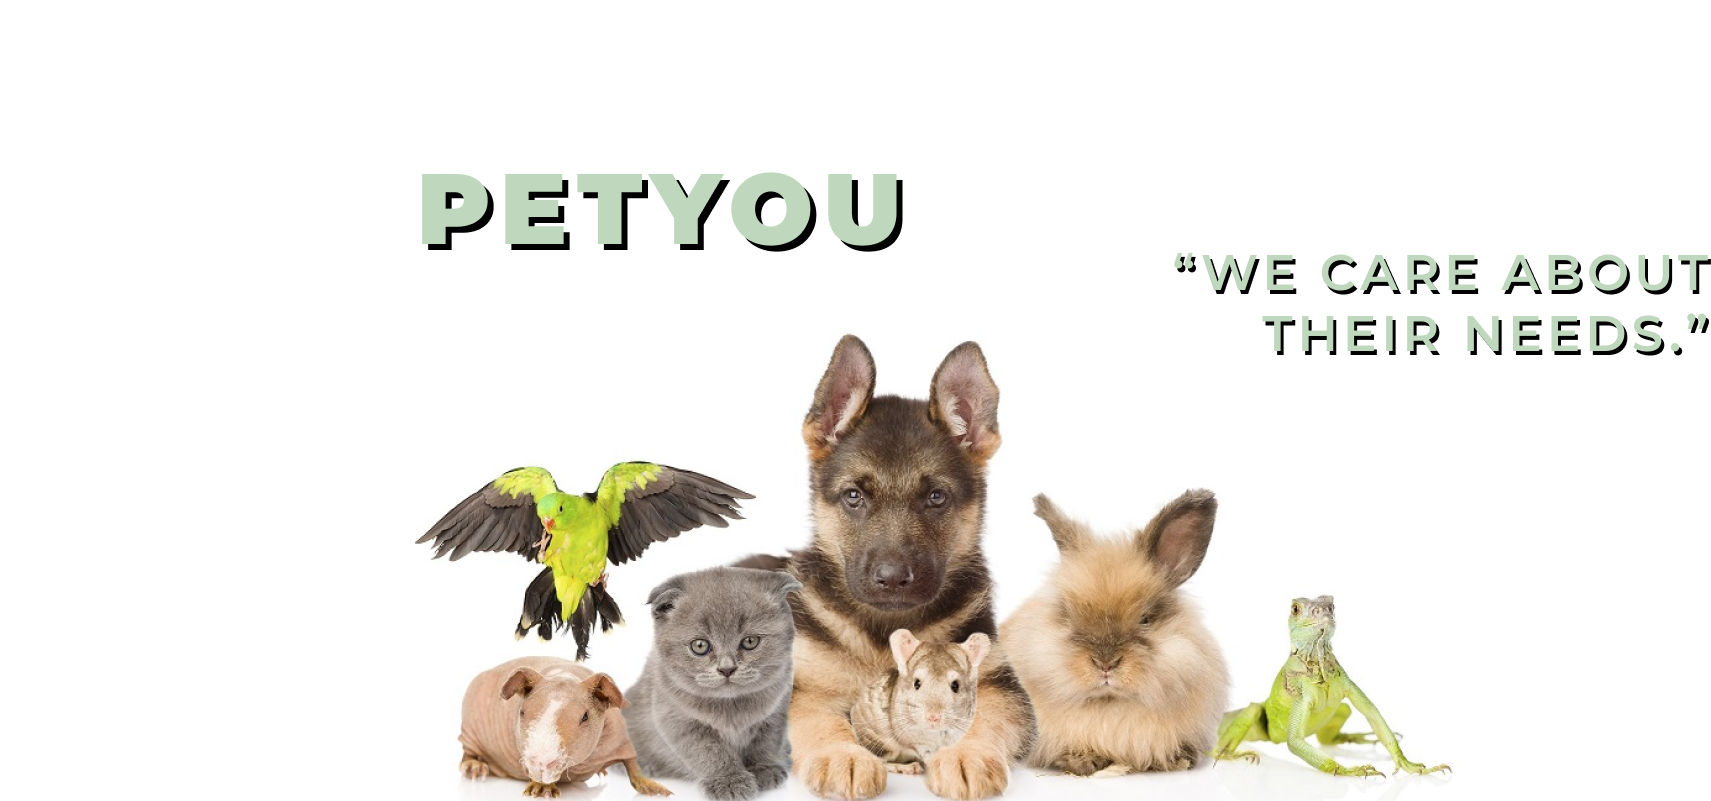
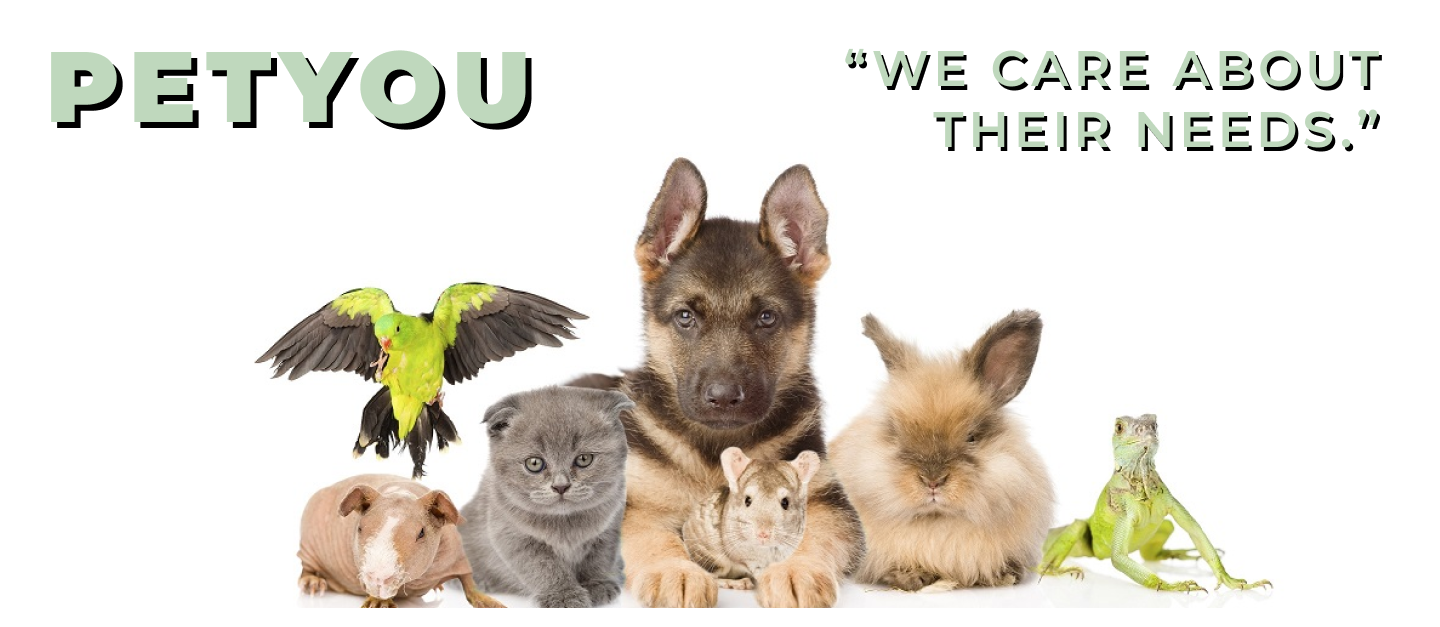
homepage

diff --git a/style.css b/style.css
@@ -85,13 +85,15 @@ button, button:focus {
     padding: 0 1rem;
 }
 #top-sale .owl-carousel .owl-nav button.owl-prev span {
-    margin-left: -4rem;
+    overflow: 2;
+    margin-left: -3.5rem;
 }
 #top-sale .owl-carousel .owl-nav button.owl-next {
     right: 0;
 }
 #top-sale .owl-carousel .owl-nav button.owl-next span {
-    margin-right: -4rem;
+    overflow: 2;
+    margin-right: -3.5rem;
 }
 
 /*   Special Price Section Template */
@@ -100,4 +102,23 @@ button, button:focus {
     margin-top: 1rem;
 }
 
+
+.home{
+    padding-top: -5rem;
+    background-color: #98C9A3;
+    margin-top: 3rem;
+    margin-bottom: 3rem;
+    border: 2px;
+    border-radius: 20px;
+    align-items: center;
+}
+
+.htitle{
+    font-weight: bold;
+    font-size: 30px;
+}
+
+#main-site{
+    background-color: #FFFFE9;
+}
 /*# sourceMappingURL=style.css.map */

diff --git a/Template/_blogs.php b/Template/_blogs.php
@@ -1,13 +1,30 @@
 
 <!-- Blogs -->
-<section id="blogs">
-    <div class="container py-4">
-        <h4 class="font-rubik font-size-20">Latest Blogs</h4>
+<section id="top-sale">
+<div class="container py-3 px-5 home">
+        <p class="htitle">NEW PETS</p>
+        <!-- owl carousel -->
+        <div class="owl-carousel owl-theme">
+            <?php foreach ($product_shuffle as $item) { ?>
+            <div class="item py-2 mr-5">
+                <div class="product font-rale">
+                    <a href="<?php printf('%s?productID=%s', 'product.php',  $item['productID']); ?>"><img src="<?php echo SITEURL; ?>images/product/<?php echo $item['image']; ?>" alt="" class="img-fluid"></a>
+                    <div class="text-center">
+                        <h6><?php echo  $item['description'] ?? "Unknown";  ?></h6>
+                    </div>
+                </div>
+            </div>
+            <?php } // closing foreach function ?>
+        </div>
+        <!-- !owl carousel -->
+    </div>
+    <!-----<div class="container py-3 home">
+        <p class="htitle">NEW PETS</p>
         <hr>
 
-        <div class="owl-carousel owl-theme">
+        <div class="owl-carousel owl-theme" style="display: flex; align-items:center;">
             <div class="item">
-                <div class="card border-0 font-rale mr-5" style="width: 18rem;">
+                <div class="card border-0 font-rale mr-5" style="width: 18rem; background-color: #98C9A3;">
                     <h5 class="card-title font-size-16">Upcoming Products</h5>
                     <img src="./assets/blog/blog1.jpg" alt="cart image" class="card-img-top">
                     <p class="card-text font-size-14 text-black-50 py-1">Lorem ipsum dolor sit amet consectetur adipisicing elit. Veritatis non iste sequi cupiditate tempora iure. Velit accusamus saepe harum sed.</p>
@@ -15,7 +32,7 @@
                 </div>
             </div>
             <div class="item">
-                <div class="card border-0 font-rale mr-5" style="width: 18rem;">
+                <div class="card border-0 font-rale mr-5" style="width: 18rem; background-color: #98C9A3;">
                     <h5 class="card-title font-size-16">Upcoming Products</h5>
                     <img src="./assets/blog/blog2.jpg" alt="cart image" class="card-img-top">
                     <p class="card-text font-size-14 text-black-50 py-1">Lorem ipsum dolor sit amet consectetur adipisicing elit. Veritatis non iste sequi cupiditate tempora iure. Velit accusamus saepe harum sed.</p>
@@ -23,7 +40,31 @@
                 </div>
             </div>
             <div class="item">
-                <div class="card border-0 font-rale mr-5" style="width: 18rem;">
+                <div class="card border-0 font-rale mr-5" style="width: 18rem; background-color: #98C9A3;">
+                    <h5 class="card-title font-size-16">Upcoming Products</h5>
+                    <img src="./assets/blog/blog3.jpg" alt="cart image" class="card-img-top">
+                    <p class="card-text font-size-14 text-black-50 py-1">Lorem ipsum dolor sit amet consectetur adipisicing elit. Veritatis non iste sequi cupiditate tempora iure. Velit accusamus saepe harum sed.</p>
+                    <a href="#" class="color-second text-left">Go somewhere</a>
+                </div>
+            </div>
+            <div class="item">
+                <div class="card border-0 font-rale mr-5" style="width: 18rem; background-color: #98C9A3;">
+                    <h5 class="card-title font-size-16">Upcoming Products</h5>
+                    <img src="./assets/blog/blog3.jpg" alt="cart image" class="card-img-top">
+                    <p class="card-text font-size-14 text-black-50 py-1">Lorem ipsum dolor sit amet consectetur adipisicing elit. Veritatis non iste sequi cupiditate tempora iure. Velit accusamus saepe harum sed.</p>
+                    <a href="#" class="color-second text-left">Go somewhere</a>
+                </div>
+            </div>
+            <div class="item">
+                <div class="card border-0 font-rale mr-5" style="width: 18rem; background-color: #98C9A3;">
+                    <h5 class="card-title font-size-16">Upcoming Products</h5>
+                    <img src="./assets/blog/blog3.jpg" alt="cart image" class="card-img-top">
+                    <p class="card-text font-size-14 text-black-50 py-1">Lorem ipsum dolor sit amet consectetur adipisicing elit. Veritatis non iste sequi cupiditate tempora iure. Velit accusamus saepe harum sed.</p>
+                    <a href="#" class="color-second text-left">Go somewhere</a>
+                </div>
+            </div>
+            <div class="item">
+                <div class="card border-0 font-rale mr-5" style="width: 18rem; background-color: #98C9A3;">
                     <h5 class="card-title font-size-16">Upcoming Products</h5>
                     <img src="./assets/blog/blog3.jpg" alt="cart image" class="card-img-top">
                     <p class="card-text font-size-14 text-black-50 py-1">Lorem ipsum dolor sit amet consectetur adipisicing elit. Veritatis non iste sequi cupiditate tempora iure. Velit accusamus saepe harum sed.</p>
@@ -31,6 +72,6 @@
                 </div>
             </div>
         </div>
-    </div>
+    </div> --->
 </section>
 <!-- !Blogs -->

diff --git a/Template/_top-sale.php b/Template/_top-sale.php
@@ -12,13 +12,12 @@
     }
 ?>
 <section id="top-sale">
-    <div class="container py-5">
-        <h4 class="font-rubik font-size-20">Top Sale</h4>
-        <hr>
+    <div class="container py-3 px-5 home">
+        <p class="htitle">AVAIL PRODUCTS</p>
         <!-- owl carousel -->
         <div class="owl-carousel owl-theme">
             <?php foreach ($product_shuffle as $item) { ?>
-            <div class="item py-2">
+            <div class="item py-2 mr-5">
                 <div class="product font-rale">
                     <a href="<?php printf('%s?productID=%s', 'product.php',  $item['productID']); ?>"><img src="<?php echo SITEURL; ?>images/product/<?php echo $item['image']; ?>" alt="" class="img-fluid"></a>
                     <div class="text-center">

diff --git a/home-page.php b/home-page.php
@@ -3,10 +3,14 @@
     // include header.php file
     include ('header.php');
 ?>
+    <img src="./assets/Banner1.png" alt="Banner1" width="100%">
+
+
+
+
 <?php
 
 /*  include banner area  */
-    include ('Template/_banner-area.php');
 /*  include banner area  */
 
 /*  include top sale section */
